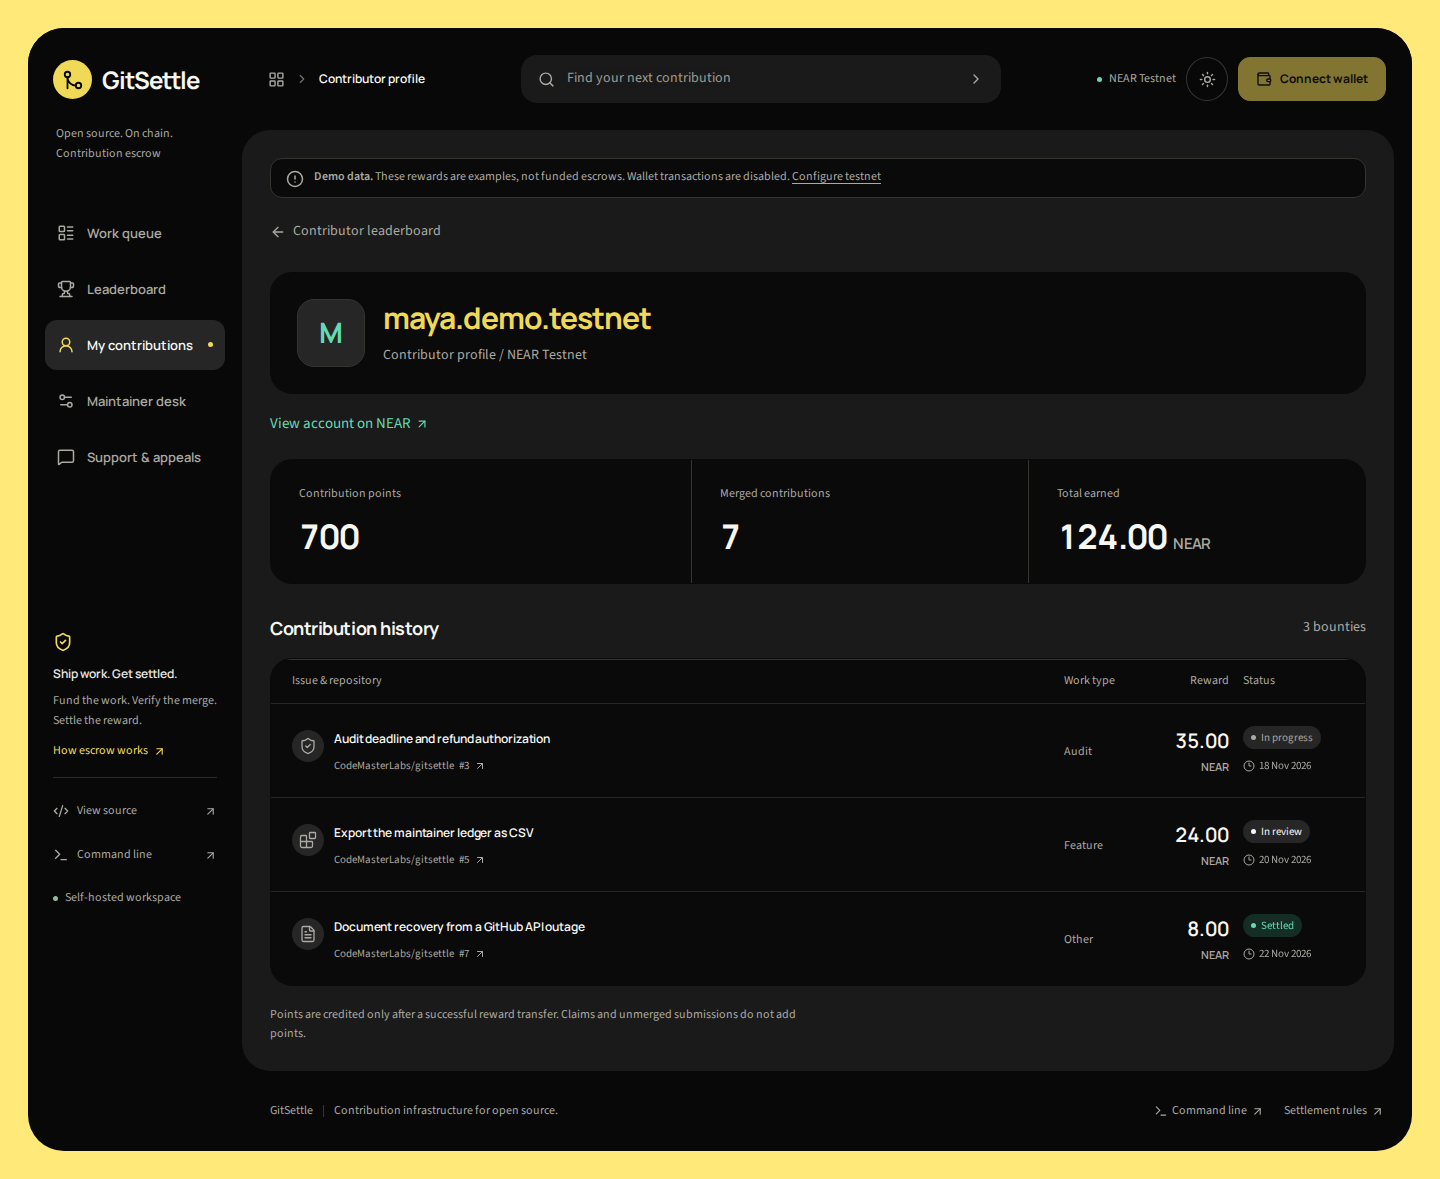
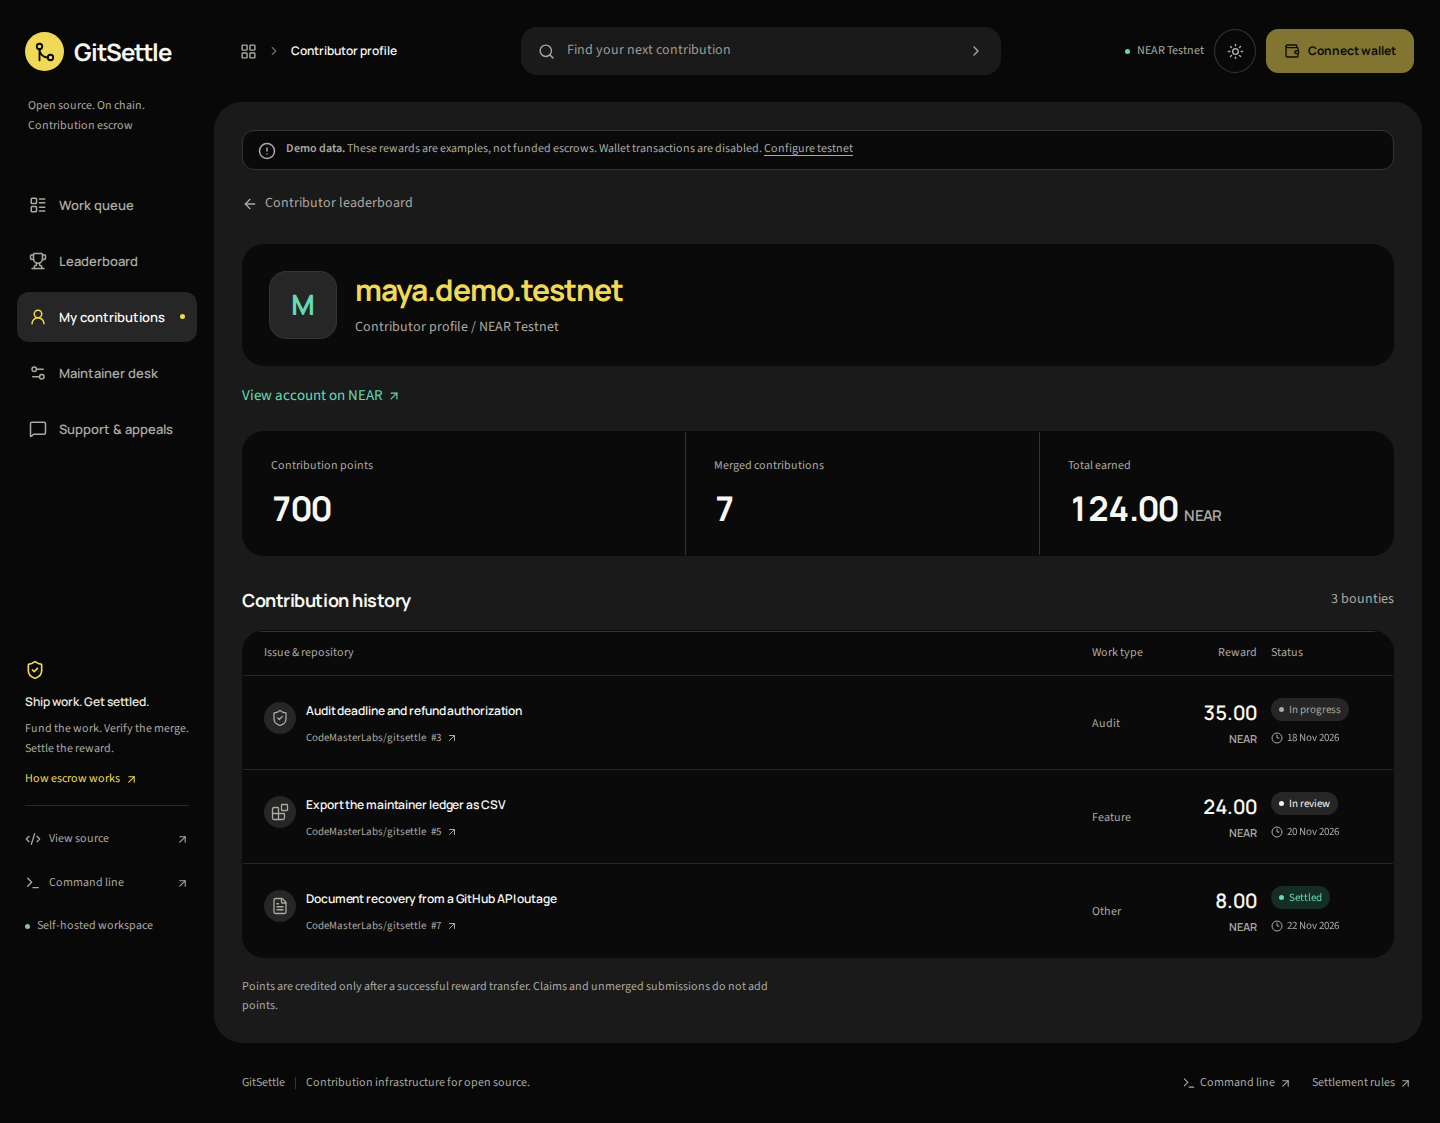
style: remove outer yellow frame and fill the viewport

diff --git a/apps/web/src/app/globals.css b/apps/web/src/app/globals.css
@@ -1,14 +1,14 @@
 @import 'tailwindcss';
 
 :root, :root[data-theme='dark'] {
-  --canvas: #ffea79; --frame: #080808; --workspace: #1a1a1a; --surface: #0a0a0a; --soft: #262626;
+  --canvas: #080808; --frame: #080808; --workspace: #1a1a1a; --surface: #0a0a0a; --soft: #262626;
   --ink: #f7f7f2; --heading: #f0d957; --muted: #aaa9a2; --forest: #64d9b3; --line: #353530; --faint-line: #262623;
   --accent: #f0d957; --accent-ink: #14140c; --icon-accent: #f0d957; --success-soft: #142d25;
   --warning: #ffc28a; --warning-soft: #36271b; --danger: #ffaaa3; --danger-soft: #3a211f;
   --focus: #f0d957; --surface-shadow: none; color-scheme: dark;
 }
 :root[data-theme='light'] {
-  --canvas: #ffea79; --frame: #fdfdf9; --workspace: #efefe9; --surface: #fff; --soft: #e6e7de;
+  --canvas: #fdfdf9; --frame: #fdfdf9; --workspace: #efefe9; --surface: #fff; --soft: #e6e7de;
   --ink: #191b16; --heading: #191b16; --muted: #5f6357; --forest: #006400; --line: #cccec1; --faint-line: #e3e5db;
   --accent: #f0d957; --accent-ink: #14140c; --icon-accent: #756210; --success-soft: #e2f0e4;
   --warning: #814614; --warning-soft: #faecd7; --danger: #9d2d27; --danger-soft: #fae9e7;
@@ -34,8 +34,8 @@ svg { flex-shrink: 0; }
 .sr-only { position: absolute; width: 1px; height: 1px; padding: 0; margin: -1px; overflow: hidden; clip: rect(0,0,0,0); white-space: nowrap; border: 0; }
 .skip-link { position: fixed; top: -70px; left: 20px; z-index: 100; background: var(--surface); padding: 12px 20px; border: 2px solid var(--forest); border-radius: 6px; }
 .skip-link:focus { top: 12px; }
-.app-shell { display: flex; min-height: calc(100vh - 56px); max-width: 1800px; margin: 28px auto; width: calc(100% - 56px); background: var(--frame); border-radius: 36px; }
-.sidebar { width: 214px; flex: 0 0 214px; padding: 32px 17px 24px; display: flex; flex-direction: column; background: #080808; color: #b9b9b0; position: sticky; top: 28px; height: calc(100vh - 56px); border-radius: 36px 0 0 36px; }
+.app-shell { display: flex; min-height: 100dvh; margin: 0; width: 100%; background: var(--frame); }
+.sidebar { width: 214px; flex: 0 0 214px; padding: 32px 17px 24px; display: flex; flex-direction: column; background: #080808; color: #b9b9b0; position: sticky; top: 0; height: 100dvh; }
 .wordmark { display: flex; align-items: center; font-family: Manrope,Arial,sans-serif; font-size: 24px; font-weight: 700; letter-spacing: -1px; color: #f7f7f2; padding: 0 8px; }
 .brand-symbol { width: 39px; height: 39px; display: grid; place-items: center; margin-right: 10px; color: #080808; background: #f0d957; border-radius: 50%; }
 .wordmark-period { color: var(--forest); }
@@ -52,7 +52,7 @@ svg { flex-shrink: 0; }
 .source-link { display: flex; align-items: center; min-height: 36px; gap: 8px; margin-top: 8px; color: #aaa9a2; font-size: 12px; }
 .source-link:hover, .footer a:hover, .external-link:hover { text-decoration: underline; text-underline-offset: 4px; }
 .workspace { flex: 1; min-width: 0; display: flex; flex-direction: column; }
-.topbar { min-height: 102px; padding: 20px 26px; display: flex; justify-content: space-between; align-items: center; gap: 24px; background: var(--frame); border-radius: 0 36px 0 0; position: relative; z-index: 20; }
+.topbar { min-height: 102px; padding: 20px 26px; display: flex; justify-content: space-between; align-items: center; gap: 24px; background: var(--frame); position: relative; z-index: 20; }
 .topbar-caption { font-size: 14px; color: var(--muted); }
 .topbar-separator { color: var(--line); padding: 0 12px; }
 .wallet-controls { display: flex; align-items: center; gap: 10px; }
@@ -451,7 +451,7 @@ input[aria-invalid='true'], select[aria-invalid='true'] { border-color: var(--da
   .overview-metrics > div { padding: 0 16px; }
 }
 @media (max-width: 1180px) {
-  .sidebar { width: 190px; flex-basis: 190px; padding-left: 10px; padding-right: 10px; top: 16px; height: calc(100vh - 32px); }
+  .sidebar { width: 190px; flex-basis: 190px; padding-left: 10px; padding-right: 10px; }
   .main-content, .topbar, .footer { padding-left: 26px; padding-right: 26px; }
   .topbar-caption { max-width: 250px; }
   .topbar-separator { padding: 0 7px; }
@@ -472,7 +472,6 @@ input[aria-invalid='true'], select[aria-invalid='true'] { border-color: var(--da
   .overview-metrics dd > span { white-space: normal; }
   .work-panel .filter-bar { grid-template-columns: 1fr 1fr .8fr; }
   .queue-view-note { display: none; }
-  .app-shell { width: calc(100% - 32px); margin: 16px auto; min-height: calc(100vh - 32px); }
   .main-content { padding: 25px 22px; }
   .board-layout { grid-template-columns: minmax(0, 1fr); }
   .locale-panel { display: grid; grid-template-columns: 180px 1fr; align-items: center; gap: 0 25px; }
@@ -490,8 +489,8 @@ input[aria-invalid='true'], select[aria-invalid='true'] { border-color: var(--da
   .overview-metrics dd { font-size: 22px; }
 }
 @media (max-width: 940px) {
-  .app-shell { display: block; border-radius: 26px; }
-  .sidebar { width: 100%; height: auto; position: static; padding: 20px 22px 13px; border-right: 0; border-bottom: 1px solid var(--line); display: grid; grid-template-columns: 1fr auto; gap: 14px; border-radius: 26px 26px 0 0; border: 0; }
+  .app-shell { flex-direction: column; }
+  .sidebar { width: 100%; flex: none; height: auto; position: static; padding: 20px 22px 13px; border-right: 0; border-bottom: 1px solid var(--line); display: grid; grid-template-columns: 1fr auto; gap: 14px; border: 0; }
   .sidebar-description, .workspace-identity, .sidebar-bottom { display: none; }
   .sidebar-network { grid-column: 2; grid-row: 1; margin: 0; align-self: center; display: inline-flex; color: #aaa9a2; }
   .sidebar nav { grid-column: 1 / -1; grid-row: 2; min-width: 0; flex-direction: row; gap: 8px; flex-wrap: nowrap; overflow-x: auto; scroll-padding-inline: 4px; padding: 4px; margin: -4px; }
@@ -512,7 +511,7 @@ input[aria-invalid='true'], select[aria-invalid='true'] { border-color: var(--da
   .footer { padding: 16px 24px; }
 }
 @media (max-width: 720px) {
-  .sidebar { padding-left: 20px; padding-right: 20px; gap: 12px; padding: 18px 14px 12px; border-radius: 22px 22px 0 0; }
+  .sidebar { padding-left: 20px; padding-right: 20px; gap: 12px; padding: 18px 14px 12px; }
   .sidebar nav { gap: 3px; }
   .nav-link { padding: 8px 9px; font-size: 12px; gap: 6px; }
   .nav-link svg { width: 16px; height: 16px; }
@@ -630,7 +629,6 @@ input[aria-invalid='true'], select[aria-invalid='true'] { border-color: var(--da
   .table-toolbar-note { display: none; }
   .profile-heading { padding: 20px; }
   .main-content input, .main-content select, .main-content textarea, .work-panel .filter-field input, .work-panel .filter-field select, .ticket-search input { font-size: 16px; }
-  .app-shell { width: calc(100% - 16px); margin: 8px auto; min-height: calc(100vh - 16px); border-radius: 22px; }
   .brand-symbol { width: 32px; height: 32px; }
   .wordmark { font-size: 22px; }
   .global-search { display: none; }

diff --git a/docs/DESIGN.md b/docs/DESIGN.md
@@ -4,9 +4,9 @@ Updated November 14, 2026. The reference-led dApp revision uses the `frontend-de
 
 ## Direction and design review
 
-The supplied reference sets the composition: a yellow outer canvas around a rounded black application, integrated dark navigation, a charcoal working area, black inset surfaces, large financial typography, and one yellow vertical panel. GitSettle translates the financial dashboard into a contribution workspace. Its overview shows the actual escrow balance, open work, submitted PRs, and paid rewards. Work-type tiles summarize currently claimable NEAR. The highlighted panel shows the languages represented in the bounty queue.
+GitSettle fills the viewport with integrated dark navigation, a charcoal working area, black inset surfaces, large financial typography, and one yellow vertical panel. The supplied reference guides these interior surfaces and accents. The application shell reaches every viewport edge, with square outer corners and no surrounding border or gutter. Its overview shows the actual escrow balance, open work, submitted PRs, and paid rewards. Work-type tiles summarize currently claimable NEAR. The highlighted panel shows the languages represented in the bounty queue.
 
-The composition uses a visibly framed application, asymmetric locale/queue columns, stronger financial scale, circular work-type markers, and a yellow translation surface. Search, category shortcuts, wallet actions, support conversations, and financial controls work within this layout. Every financial value and summary comes from the returned bounty data.
+The composition uses asymmetric locale/queue columns, stronger financial scale, circular work-type markers, and a yellow translation surface. Search, category shortcuts, wallet actions, support conversations, and financial controls work within this layout. Every financial value and summary comes from the returned bounty data.
 
 Forest green is the semantic success color in light mode; mint serves the same role in dark mode. The default appearance is dark to match the reference. An explicitly selected light appearance remains available and persists across navigation.
 
@@ -14,8 +14,7 @@ Forest green is the semantic success color in light mode; mint serves the same r
 
 | Role | Dark/default | Light |
 | --- | --- | --- |
-| Outer canvas | `#FFEA79` | `#FFEA79` |
-| Application frame | `#080808` | `#FDFDF9` |
+| Page and application shell | `#080808` | `#FDFDF9` |
 | Workspace | `#1A1A1A` | `#EFEFE9` |
 | Inset surface | `#0A0A0A` | `#FFFFFF` |
 | Primary ink | `#F7F7F2` | `#191B16` |
@@ -28,16 +27,15 @@ The navigation stays black in both appearances. The yellow locale panel uses `#1
 
 - **Manrope 600/700:** headings, navigation, issue titles, actions, balances and rankings. The leading escrow balance is 48 px at wide desktop sizes; ordinary page titles are 30 px. Financial values use tabular numerals and intentionally stronger scale than supporting copy.
 - **Source Sans 3 400/600:** descriptions, labels, metadata, forms and support messages. Both typefaces are bundled locally.
-- **Spacing:** 4, 8, 12, 16, 20, 24, 28 and 32 px. Desktop frame gutter is 28 px; mobile is 8 px. Prose stays left aligned and financial comparison columns right aligned.
-- **Shape:** 36 px application frame, 28 px workspace, 24 px board panels, 20–22 px inset surfaces, 12 px controls, circular type/avatar marks and pill status labels. Shape communicates containment and role rather than using one radius everywhere.
+- **Spacing:** 4, 8, 12, 16, 20, 24, 28 and 32 px within the application. Outer viewport gutters are 0 px at every width. Prose stays left aligned and financial comparison columns right aligned.
+- **Shape:** square outer application corners, 28 px workspace, 24 px board panels, 20–22 px inset surfaces, 12 px controls, circular type/avatar marks and pill status labels. Rounded interior surfaces communicate containment and role.
 - **Motion:** pending transaction feedback and actual rank changes only; reduced-motion preferences are respected. No ambient charts or entrance animation.
 - **Icons:** Lucide throughout. Icons supplement visible labels; purely decorative icons have `aria-hidden`.
 
 ## Layout
 
 ```text
-Yellow canvas
-+------------------ black application frame -------------------------+
++-------------------- full-viewport application ---------------------+
 | GitSettle        | Location       Find your next contribution Wallet |
 |                  | +--------------- charcoal workspace -----------+ |
 | Work queue       | | Work queue                     Post a bounty | |

diff --git a/README.md b/README.md
@@ -39,7 +39,7 @@ The public address is usable for browsing; operating its verifier requires its p
 
 - Rust escrow with exact native NEAR deposits, bounded storage, claim/submission deadlines, authorized release/refund, asynchronous transfer recovery, and a top-100 reputation view.
 - Next.js App Router UI: dense work queue, type/status/reward filters, locale badges, bounty detail, wallet-funded posting, claim/submit, contributor profiles, leaderboard with observed rank movement, and maintainer dashboard.
-- A dark dApp workspace with a yellow canvas, inset work queue, real escrow totals, reward-category filters and a locale panel; an explicit light appearance is also available. Global issue search and every summary shortcut use actual bounty data.
+- A full-viewport dark dApp workspace with an inset work queue, real escrow totals, reward-category filters and a yellow locale panel; an explicit light appearance is also available. Global issue search and every summary shortcut use actual bounty data.
 - A custom wallet picker for MyNearWallet, Meteor, Intear and Nightly, combining Wallet Selector v10 with pinned NEAR Connect executors. A wallet redirect alone never marks a payment confirmed. [Wallet setup and capabilities](docs/WALLETS.md).
 - A Node verifier that checks PR merge, repository, exact issue reference, claimant binding and translation paths before signing `release`.
 - Drizzle/SQLite metadata, verification audit and daily leaderboard snapshots; light/dark themes; responsive and keyboard-accessible states.
